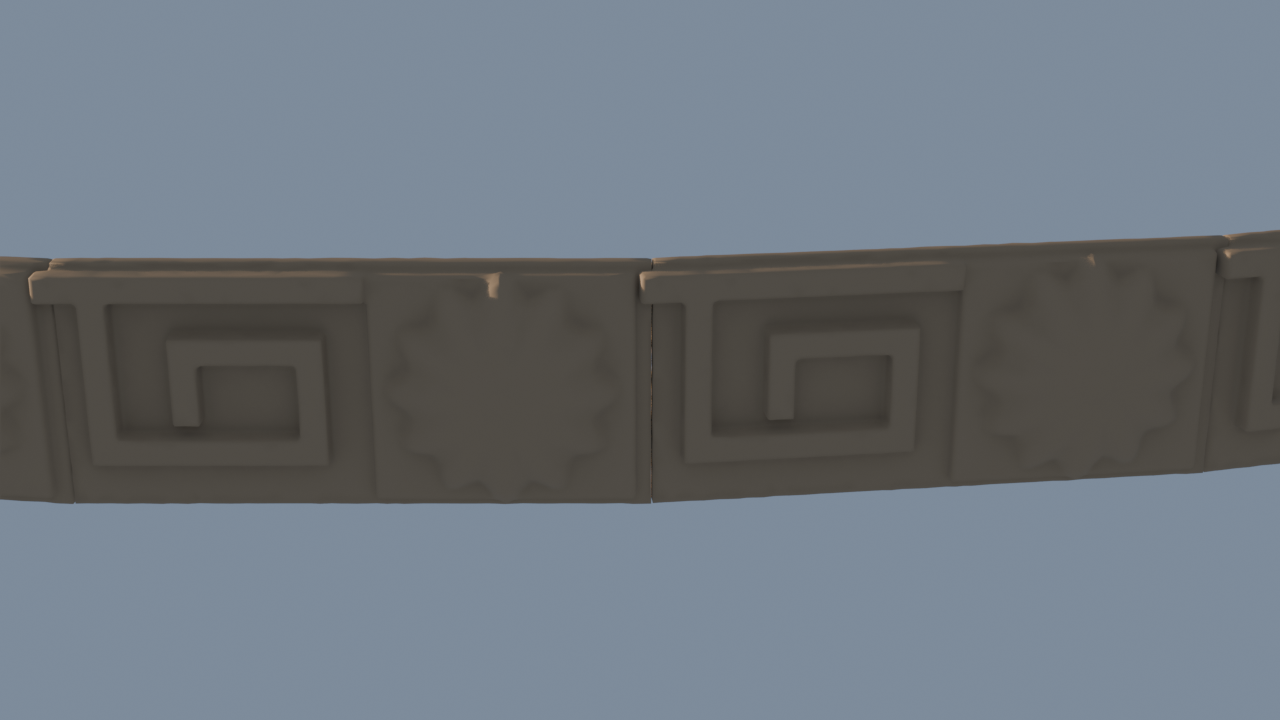
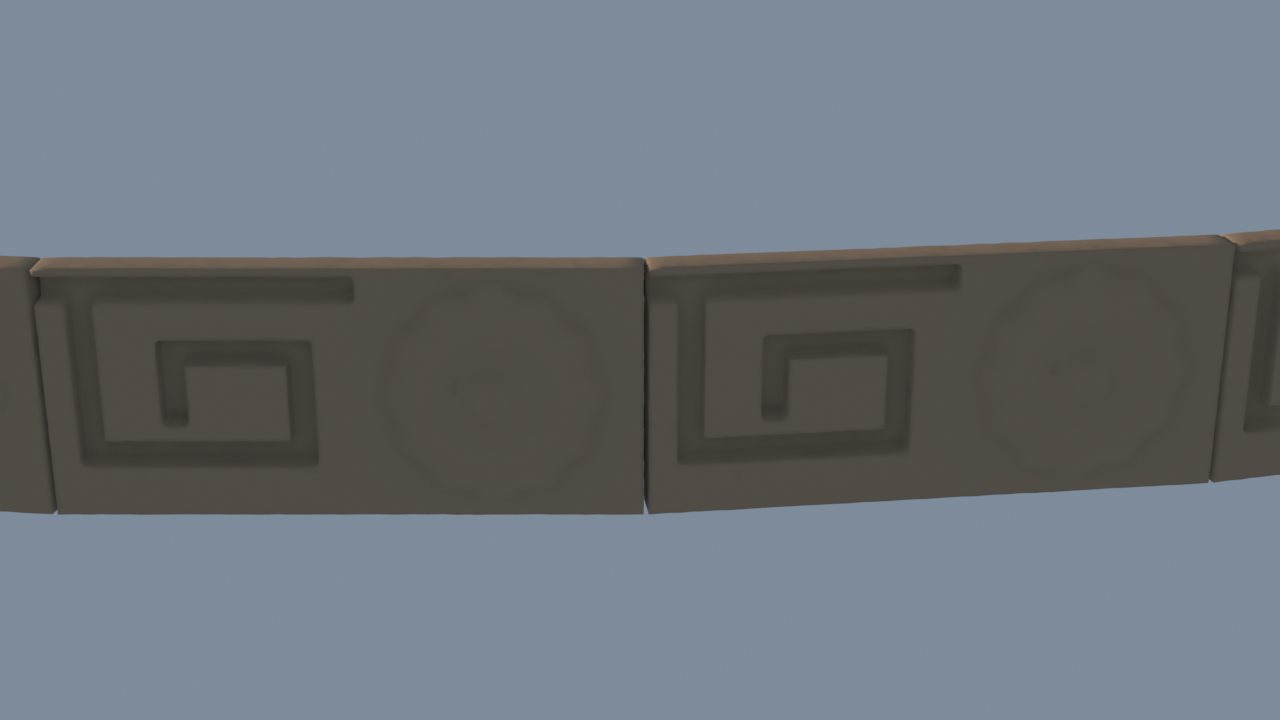
ORN QA-01-11: bands are INCISED per rostra_band_1/2 (4.5 cm boolean-cut fret grooves in a 8 cm slab, 0.45 m petalled patera bosses); frieze test isolates one run per shot
Claude-Session: https://claude.ai/code/session_011BvHAWPoEr8ckchD5sBqcK

Changed region(s): [[0.0, 0.3056, 1.0, 0.7333]]

diff --git a/scripts/orn_build.py b/scripts/orn_build.py
@@ -963,36 +963,68 @@ def _strip(name, coll, length=1.0, depth=0.05, height=0.2):
     return L.box(name, (length, depth, height), coll, location=(0, depth / 2, height / 2))
 
 
-# QA-01-11 rostra / podium band (reference sheet s4 #12: band h ~ 0.5, rosettes ~ 0.45 dia; crops rostra_band_1-2)
+# QA-01-11 rostra / podium band (reference sheet s4 #12: band h ~ 0.5, rosettes ~ 0.45 dia; crops rostra_band_1-2).
+# In the photos the meander is INCISED into the top course of the podium (deep rectangular grooves in a flat face)
+# and only the round paterae stand proud, so the unit is a flat slab with the fret cut out of it by boolean.
 KEY_UNIT = 0.60          # one meander repeat = one greek_key unit (unit_length)
 KEY_BAND_H = 0.52        # band height, shared by greek_key and rosette_band so they mix on one run
-KEY_GROUND = 0.03        # backing strip depth (the sunk field of the band)
-KEY_RELIEF = 0.05        # how far the fret bars stand proud of that field  -> total relief 5 cm (>= 3 cm required)
-KEY_BAR = 0.058          # fret bar width (bar : gap about 1 : 0.8, as in rostra_band_1/2)
+KEY_FACE = 0.08          # slab thickness (the band face stands 8 cm off the wall behind it)
+KEY_GROOVE = 0.045       # how deep the fret is cut into that face  (>= 3 cm required by QA-01-11)
+KEY_BAR = 0.052          # groove width (groove : land about 1 : 0.9, as in rostra_band_1/2)
+KEY_BOSS = 0.45          # patera diameter
 
 
-def greek_key_bars(coll, x0, unit, band_h, tag="k"):
-    """One classic running-fret repeat starting at local x = x0, spanning `unit` metres. Grid g = unit/7, inner field
-    5 g tall; the top rail runs the full width so consecutive units join into one continuous meander. Bar boxes."""
+def greek_key_cutters(coll, x0, unit, band_h, tag="k"):
+    """Cutter boxes for one classic running-fret repeat starting at local x = x0 and spanning `unit` metres.
+    Grid g = unit/7, inner field 5 g tall; the top groove runs the full width so consecutive units join into one
+    continuous meander. Each box protrudes through the front face so a boolean difference leaves a groove."""
     g = unit / 7.0
     w = KEY_BAR
     zb = (band_h - 5.0 * g) / 2.0                      # bottom of the inner field
-    y = KEY_GROUND + KEY_RELIEF / 2.0
+    dy = KEY_GROOVE + 0.02
+    y = KEY_FACE - KEY_GROOVE + dy / 2.0
     out = []
 
     def seg(gx0, gz0, gx1, gz1):
         ax, az = x0 + gx0 * g, zb + gz0 * g
         bx, bz = x0 + gx1 * g, zb + gz1 * g
-        out.append(L.box(f"{tag}{len(out)}", (abs(bx - ax) + w, KEY_RELIEF, abs(bz - az) + w), coll,
-                         location=(0.5 * (ax + bx), y, 0.5 * (az + bz)), bevel=0.004, segments=1))
+        out.append(L.box(f"{tag}{len(out)}", (abs(bx - ax) + w, dy, abs(bz - az) + w), coll,
+                         location=(0.5 * (ax + bx), y, 0.5 * (az + bz)), segments=1))
 
-    seg(-0.02, 5, 7.02, 5)          # continuous top rail (overlaps the neighbouring unit by 2 %)
+    seg(-0.05, 5, 7.05, 5)          # continuous top groove (overlaps the neighbouring unit by 5 %)
     seg(6, 5, 6, 1)                 # down stroke
     seg(6, 1, 1, 1)                 # bottom stroke
     seg(1, 1, 1, 3.5)               # up stroke
     seg(1, 3.5, 4, 3.5)             # inner return
     seg(4, 3.5, 4, 2.0)             # spiral tail
     return out
+
+
+def cut_boxes(obj, cutters):
+    """Boolean-difference every cutter out of `obj` (before any remesh: exact booleans on boxes are reliable)."""
+    for c in cutters:
+        m = obj.modifiers.new("Cut", "BOOLEAN")
+        m.operation = "DIFFERENCE"
+        m.solver = "EXACT"
+        m.object = c
+        L.apply_all(obj)
+        L.remove_object(c)
+    return obj
+
+
+def patera_boss(name, coll, diameter=KEY_BOSS, proud=0.055):
+    """The round rosette boss of the rostra band: a low petalled patera with a knob centre, facing +Y."""
+    r = diameter / 2.0
+    prof = [(0.000, proud * 0.95), (0.030, proud * 1.05), (0.060, proud * 0.72), (0.090, proud * 0.62),
+            (0.135, proud * 0.80), (0.175, proud * 0.62), (r * 0.93, proud * 0.34), (r, proud * 0.10), (r, 0.0)]
+
+    def petals(th, t):
+        return 1.0 + 0.045 * math.cos(12 * th) * t
+
+    ob = L.revolve(name, L.resample_profile(prof, 24), segments=72, coll=coll, scale_fn=petals,
+                   cap_bottom=True, cap_top=True)
+    ob.data.transform(Euler((math.radians(-90), 0, 0), "XYZ").to_matrix().to_4x4())
+    return ob
 
 
 def build_moulding(kind, variant, coll, bake=True):
@@ -1024,29 +1056,23 @@ def build_moulding(kind, variant, coll, bake=True):
         h, d = 0.20, 0.13
     elif kind == "greek_key":
         # QA-01-11 running meander (rostra_band_1/2, sheet s4 #12): band 0.52 m, ONE key repeat per unit so the unit
-        # tiles seamlessly at any run length. Grid g = U/8, inner field 6g = 0.45 m, bar 0.05 m proud of the ground.
+        # tiles seamlessly at any run length. Grid g = U/7, inner field 5g = 0.43 m, groove 4.5 cm deep.
         band_h, ulen = KEY_BAND_H, KEY_UNIT
-        parts.append(_strip("m_back", work, depth=KEY_GROUND, height=band_h, length=ulen))
-        parts += greek_key_bars(work, x0=-ulen / 2, unit=ulen, band_h=band_h, tag="k")
-        h, d = band_h, KEY_GROUND + KEY_RELIEF
+        slab = L.box("m_face", (ulen, KEY_FACE, band_h), work, location=(0, KEY_FACE / 2, band_h / 2))
+        parts.append(cut_boxes(slab, greek_key_cutters(work, x0=-ulen / 2, unit=ulen, band_h=band_h, tag="k")))
+        h, d = band_h, KEY_FACE
     elif kind == "rosette_band":
-        # QA-01-11 rostra band: square rosette boss (0.45 m rosette) ALTERNATING with one meander repeat.
-        # unit = 1.20 m = 0.60 rosette panel + 0.60 key repeat; same band height as greek_key so the two mix on a run.
+        # QA-01-11 rostra band: a round patera boss (0.45 m) ALTERNATING with one incised meander repeat.
+        # unit = 1.20 m = 0.60 boss panel + 0.60 key repeat; same band height as greek_key so the two mix on a run.
         band_h, ulen = KEY_BAND_H, 2 * KEY_UNIT
-        parts.append(_strip("m_back", work, depth=KEY_GROUND, height=band_h, length=ulen))
+        slab = L.box("m_face", (ulen, KEY_FACE, band_h), work, location=(0, KEY_FACE / 2, band_h / 2))
         cx = -ulen / 2 + KEY_UNIT / 2
-        # sunk square frame + boss
-        parts.append(L.box("ros_frame", (0.54, KEY_GROUND + 0.030, 0.48), work, location=(cx, (KEY_GROUND + 0.03) / 2, band_h / 2), bevel=0.008))
-        prof = [(0.225, 0.0), (0.225, 0.012), (0.205, 0.040), (0.150, 0.070), (0.085, 0.090), (0.0, 0.098)]
-        def petals(th, t):
-            return 1.0 + 0.10 * math.cos(12 * th) * (1 - 0.6 * t)
-        ros = L.revolve("rosette", L.resample_profile(prof, 16), segments=72, coll=work, scale_fn=petals)
-        ros.data.transform(Euler((math.radians(-90), 0, 0), "XYZ").to_matrix().to_4x4())
-        ros.data.transform(Matrix.Translation((cx, KEY_GROUND + 0.020, band_h / 2)))
-        parts.append(ros)
-        parts.append(L.sphere("ros_eye", 0.055, work, location=(cx, KEY_GROUND + 0.085, band_h / 2), scale=(1.0, 0.7, 1.0)))
-        parts += greek_key_bars(work, x0=cx + KEY_UNIT / 2, unit=KEY_UNIT, band_h=band_h, tag="r")
-        h, d = band_h, KEY_GROUND + 0.098
+        cut_boxes(slab, greek_key_cutters(work, x0=cx + KEY_UNIT / 2, unit=KEY_UNIT, band_h=band_h, tag="r"))
+        parts.append(slab)
+        boss = patera_boss("boss", work)
+        boss.data.transform(Matrix.Translation((cx, KEY_FACE - 0.004, band_h / 2)))
+        parts.append(boss)
+        h, d = band_h, KEY_FACE + 0.055
     elif kind == "modillion":
         # block bracket with a scrolled underside, 2 per metre (pitch 0.5), backing = the soffit strip
         parts.append(_strip("m_back", work, depth=0.03, height=0.30))
@@ -1076,11 +1102,11 @@ def build_moulding(kind, variant, coll, bake=True):
         raise KeyError(kind)
     hi = L.union_blob(parts, f"{kind}_v{variant}", voxel=(0.01 if FAST else 0.006), smooth=1, coll=work)
     L.displace_noise(hi, strength=0.002, size=0.03, seed=1600 + variant, depth=1)
-    relief = d - (KEY_GROUND if kind in ("greek_key", "rosette_band") else 0.0)
+    relief = KEY_GROOVE if kind in ("greek_key", "rosette_band") else d
     return L.finalize_asset(hi, kind, variant, coll, bake=bake, bake_size=1024, y_mode="back", budgets=L.BUDGETS["moulding"],
                             extra_props={"unit_length": ulen, "band_height": h, "relief_depth": relief},
                             size_note=(f"repeat unit: unit_length {ulen:.2f} m along X, {h:.2f} m tall, projects {d:.2f} m "
-                                       f"toward +Y (relief {relief * 100:.0f} cm over the sunk field); origin back-face "
+                                       f"toward +Y (fret incised {relief * 100:.1f} cm into the face); origin back-face "
                                        f"bottom-centre; array with orn_lib.array_unit_along_run"))
 
 

diff --git a/scripts/orn_frieze_test.py b/scripts/orn_frieze_test.py
@@ -120,8 +120,9 @@ def main():
         if sk is None or not made:
             continue
         shown = made[:max(2, min(len(made), int(6.0 / L.unit_length_of(made[0]))))]
-        for o in made:
-            o.hide_render = o not in shown          # frame a 6 m stretch, hide the rest of the run
+        keep = {o.name for o in shown}            # frame a 6 m stretch of THIS run only
+        for o in coll.objects:
+            o.hide_render = o.name not in keep
         pts = [o.matrix_world.translation for o in shown]
         mid = sum(pts, Vector((0, 0, 0))) / len(pts) + Vector((0, 0, 0.26))
         span = max((a - b).length for a in pts for b in pts) + L.unit_length_of(made[0])
@@ -134,9 +135,10 @@ def main():
         bpy.context.view_layer.update()
         scene.render.filepath = str(OUT_DIR / f"frieze_run_{tag}.png")
         bpy.ops.render.render(write_still=True)
-        for o in made:
+        for o in coll.objects:
             o.hide_render = False
-        print(f"[frieze_test] rendered {scene.render.filepath} ({len(shown)} of {len(made)} units, span {span:.2f} m)")
+        print(f"[frieze_test] rendered {scene.render.filepath} ({len(shown)} of {len(made)} units, span {span:.2f} m, "
+              f"mesh {shown[0].data.name}, visible-in-scene {sum(1 for o in bpy.data.objects if o.type == 'MESH' and not o.hide_render)})")
 
 
 if __name__ == "__main__":
